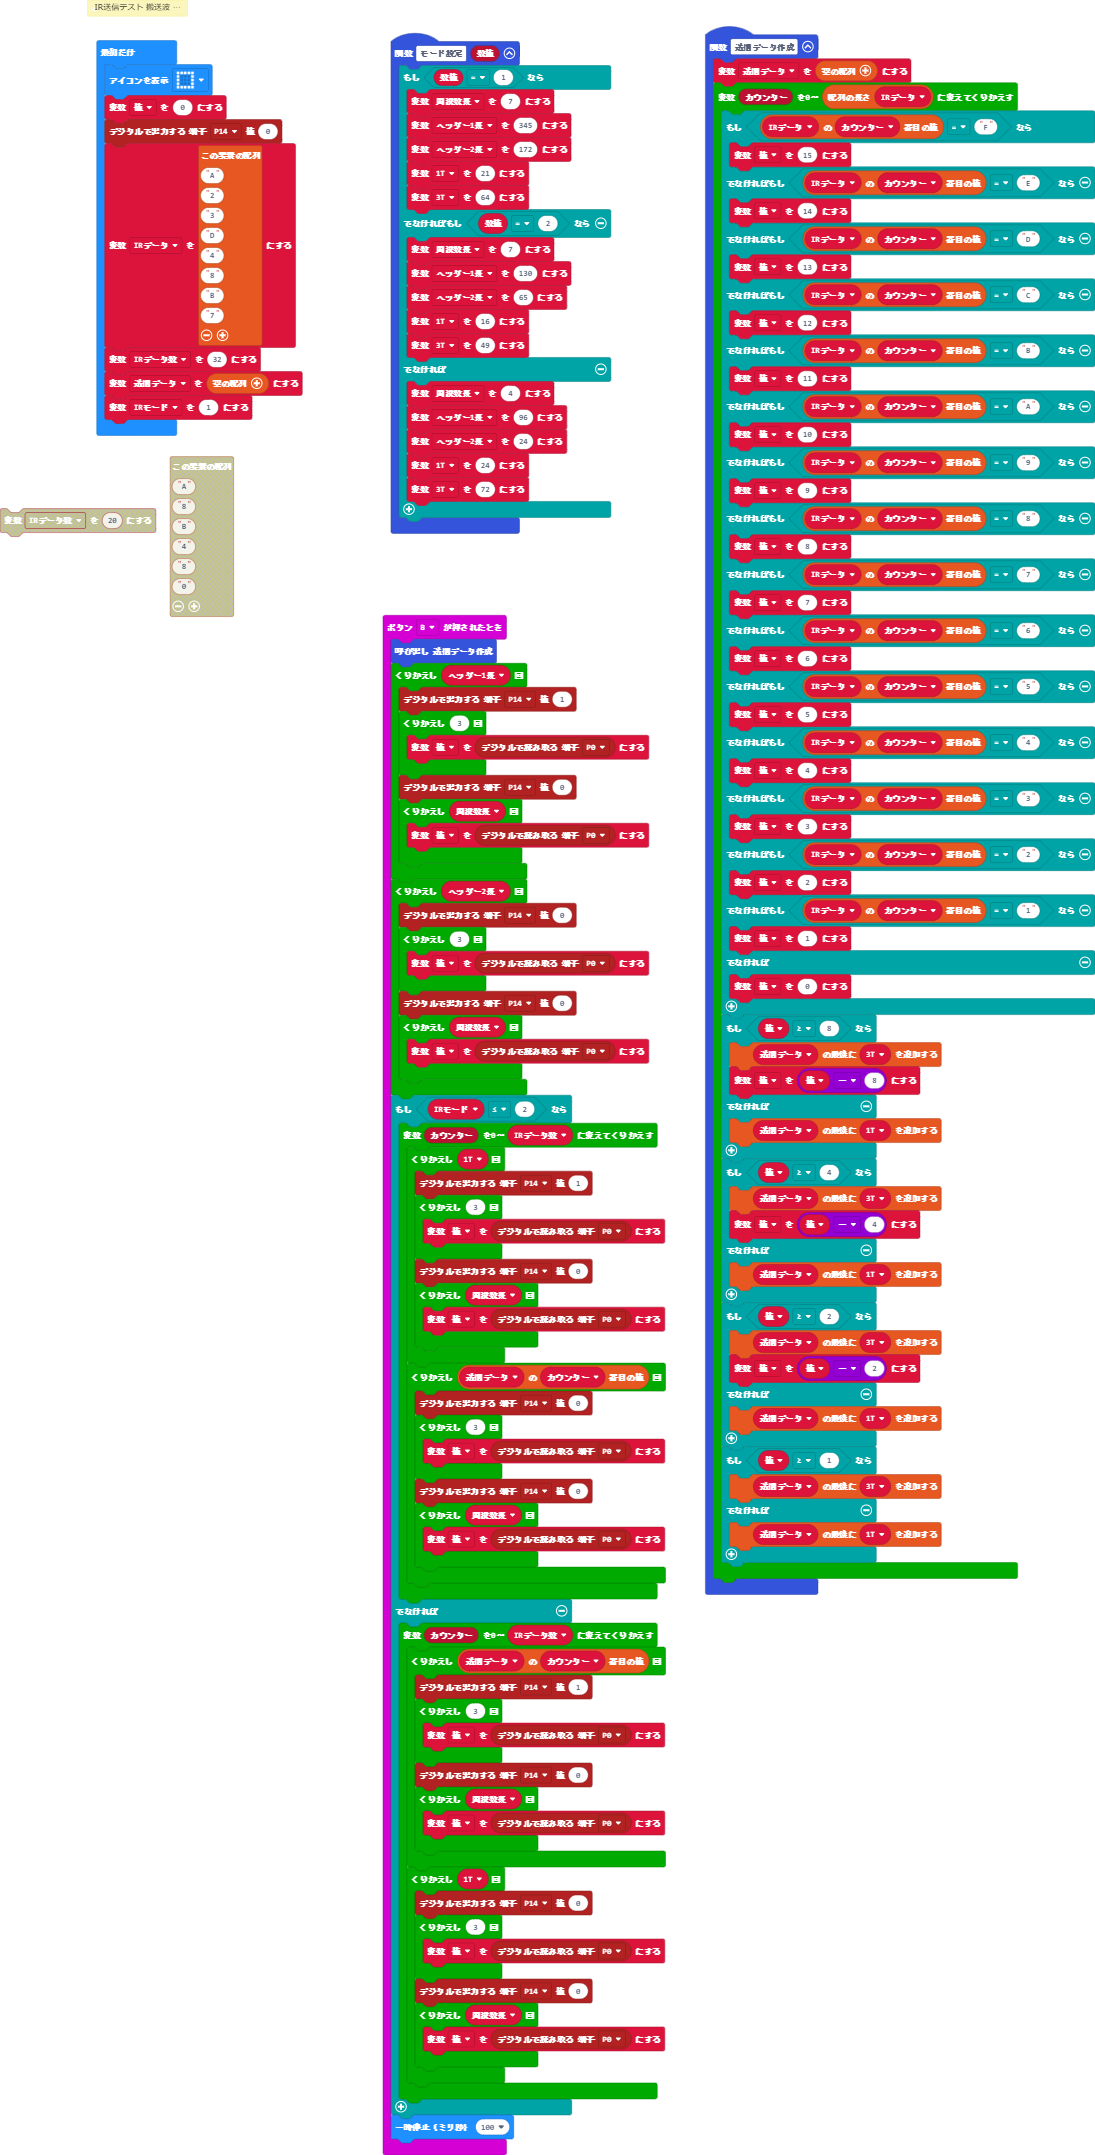
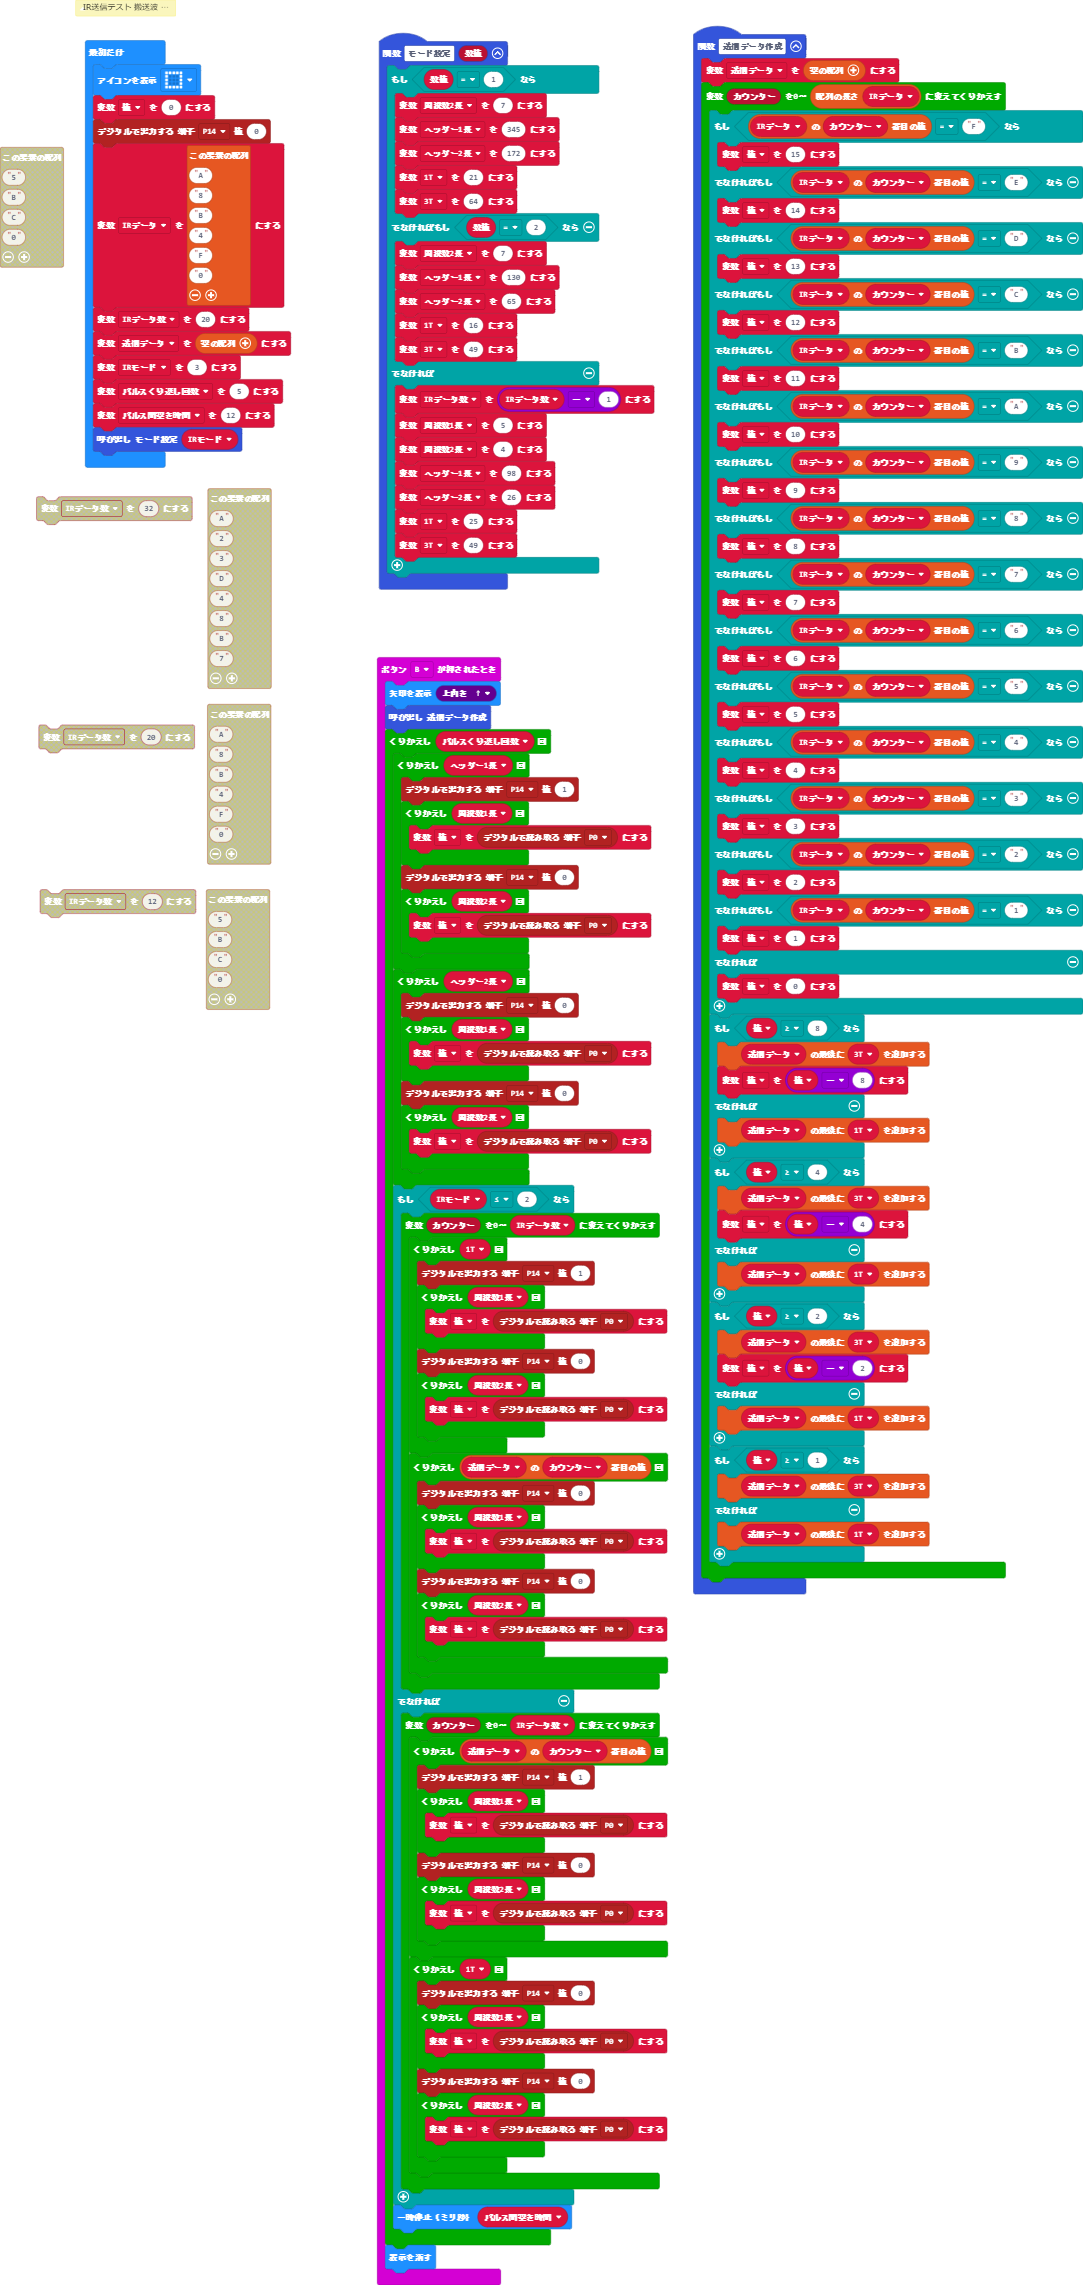
更新 main.blocks, main.ts

diff --git a/main.ts b/main.ts
@@ -1,94 +1,100 @@
 function モード設定 (数値: number) {
     if (数値 == 1) {
-        周波数長 = 7
+        周波数2長 = 7
         ヘッダー1長 = 345
         ヘッダー2長 = 172
         _1T = 21
         _3T = 64
     } else if (数値 == 2) {
-        周波数長 = 7
+        周波数2長 = 7
         ヘッダー1長 = 130
         ヘッダー2長 = 65
         _1T = 16
         _3T = 49
     } else {
-        周波数長 = 4
-        ヘッダー1長 = 96
-        ヘッダー2長 = 24
-        _1T = 24
-        _3T = 72
+        IRデータ数 = IRデータ数 - 1
+        周波数1長 = 5
+        周波数2長 = 4
+        ヘッダー1長 = 98
+        ヘッダー2長 = 26
+        _1T = 25
+        _3T = 49
     }
 }
 input.onButtonPressed(Button.B, function () {
+    basic.showArrow(ArrowNames.North)
     送信データ作成()
-    for (let index = 0; index < ヘッダー1長; index++) {
-        pins.digitalWritePin(DigitalPin.P14, 1)
-        for (let index = 0; index < 3; index++) {
-            値 = pins.digitalReadPin(DigitalPin.P0)
+    for (let index = 0; index < パルスくり返し回数; index++) {
+        for (let index = 0; index < ヘッダー1長; index++) {
+            pins.digitalWritePin(DigitalPin.P14, 1)
+            for (let index = 0; index < 周波数1長; index++) {
+                値 = pins.digitalReadPin(DigitalPin.P0)
+            }
+            pins.digitalWritePin(DigitalPin.P14, 0)
+            for (let index = 0; index < 周波数2長; index++) {
+                値 = pins.digitalReadPin(DigitalPin.P0)
+            }
         }
-        pins.digitalWritePin(DigitalPin.P14, 0)
-        for (let index = 0; index < 周波数長; index++) {
-            値 = pins.digitalReadPin(DigitalPin.P0)
+        for (let index = 0; index < ヘッダー2長; index++) {
+            pins.digitalWritePin(DigitalPin.P14, 0)
+            for (let index = 0; index < 周波数1長; index++) {
+                値 = pins.digitalReadPin(DigitalPin.P0)
+            }
+            pins.digitalWritePin(DigitalPin.P14, 0)
+            for (let index = 0; index < 周波数2長; index++) {
+                値 = pins.digitalReadPin(DigitalPin.P0)
+            }
         }
+        if (IRモード <= 2) {
+            for (let カウンター = 0; カウンター <= IRデータ数; カウンター++) {
+                for (let index = 0; index < _1T; index++) {
+                    pins.digitalWritePin(DigitalPin.P14, 1)
+                    for (let index = 0; index < 周波数1長; index++) {
+                        値 = pins.digitalReadPin(DigitalPin.P0)
+                    }
+                    pins.digitalWritePin(DigitalPin.P14, 0)
+                    for (let index = 0; index < 周波数2長; index++) {
+                        値 = pins.digitalReadPin(DigitalPin.P0)
+                    }
+                }
+                for (let index = 0; index < 送信データ[カウンター]; index++) {
+                    pins.digitalWritePin(DigitalPin.P14, 0)
+                    for (let index = 0; index < 周波数1長; index++) {
+                        値 = pins.digitalReadPin(DigitalPin.P0)
+                    }
+                    pins.digitalWritePin(DigitalPin.P14, 0)
+                    for (let index = 0; index < 周波数2長; index++) {
+                        値 = pins.digitalReadPin(DigitalPin.P0)
+                    }
+                }
+            }
+        } else {
+            for (let カウンター = 0; カウンター <= IRデータ数; カウンター++) {
+                for (let index = 0; index < 送信データ[カウンター]; index++) {
+                    pins.digitalWritePin(DigitalPin.P14, 1)
+                    for (let index = 0; index < 周波数1長; index++) {
+                        値 = pins.digitalReadPin(DigitalPin.P0)
+                    }
+                    pins.digitalWritePin(DigitalPin.P14, 0)
+                    for (let index = 0; index < 周波数2長; index++) {
+                        値 = pins.digitalReadPin(DigitalPin.P0)
+                    }
+                }
+                for (let index = 0; index < _1T; index++) {
+                    pins.digitalWritePin(DigitalPin.P14, 0)
+                    for (let index = 0; index < 周波数1長; index++) {
+                        値 = pins.digitalReadPin(DigitalPin.P0)
+                    }
+                    pins.digitalWritePin(DigitalPin.P14, 0)
+                    for (let index = 0; index < 周波数2長; index++) {
+                        値 = pins.digitalReadPin(DigitalPin.P0)
+                    }
+                }
+            }
+        }
+        basic.pause(パルス間空き時間)
     }
-    for (let index = 0; index < ヘッダー2長; index++) {
-        pins.digitalWritePin(DigitalPin.P14, 0)
-        for (let index = 0; index < 3; index++) {
-            値 = pins.digitalReadPin(DigitalPin.P0)
-        }
-        pins.digitalWritePin(DigitalPin.P14, 0)
-        for (let index = 0; index < 周波数長; index++) {
-            値 = pins.digitalReadPin(DigitalPin.P0)
-        }
-    }
-    if (IRモード <= 2) {
-        for (let カウンター = 0; カウンター <= IRデータ数; カウンター++) {
-            for (let index = 0; index < _1T; index++) {
-                pins.digitalWritePin(DigitalPin.P14, 1)
-                for (let index = 0; index < 3; index++) {
-                    値 = pins.digitalReadPin(DigitalPin.P0)
-                }
-                pins.digitalWritePin(DigitalPin.P14, 0)
-                for (let index = 0; index < 周波数長; index++) {
-                    値 = pins.digitalReadPin(DigitalPin.P0)
-                }
-            }
-            for (let index = 0; index < 送信データ[カウンター]; index++) {
-                pins.digitalWritePin(DigitalPin.P14, 0)
-                for (let index = 0; index < 3; index++) {
-                    値 = pins.digitalReadPin(DigitalPin.P0)
-                }
-                pins.digitalWritePin(DigitalPin.P14, 0)
-                for (let index = 0; index < 周波数長; index++) {
-                    値 = pins.digitalReadPin(DigitalPin.P0)
-                }
-            }
-        }
-    } else {
-        for (let カウンター = 0; カウンター <= IRデータ数; カウンター++) {
-            for (let index = 0; index < 送信データ[カウンター]; index++) {
-                pins.digitalWritePin(DigitalPin.P14, 1)
-                for (let index = 0; index < 3; index++) {
-                    値 = pins.digitalReadPin(DigitalPin.P0)
-                }
-                pins.digitalWritePin(DigitalPin.P14, 0)
-                for (let index = 0; index < 周波数長; index++) {
-                    値 = pins.digitalReadPin(DigitalPin.P0)
-                }
-            }
-            for (let index = 0; index < _1T; index++) {
-                pins.digitalWritePin(DigitalPin.P14, 0)
-                for (let index = 0; index < 3; index++) {
-                    値 = pins.digitalReadPin(DigitalPin.P0)
-                }
-                pins.digitalWritePin(DigitalPin.P14, 0)
-                for (let index = 0; index < 周波数長; index++) {
-                    値 = pins.digitalReadPin(DigitalPin.P0)
-                }
-            }
-        }
-    }
-    basic.pause(100)
+    basic.clearScreen()
 })
 function 送信データ作成 () {
     送信データ = []
@@ -160,11 +166,14 @@ function 送信データ作成 () {
  * 
  * ループ回数12＝28us、36KHz
  */
+let 周波数1長 = 0
 let _3T = 0
 let _1T = 0
 let ヘッダー2長 = 0
 let ヘッダー1長 = 0
-let 周波数長 = 0
+let 周波数2長 = 0
+let パルス間空き時間 = 0
+let パルスくり返し回数 = 0
 let IRモード = 0
 let 送信データ: number[] = []
 let IRデータ数 = 0
@@ -175,14 +184,15 @@ basic.showIcon(IconNames.Square)
 pins.digitalWritePin(DigitalPin.P14, 0)
 IRデータ = [
 "A",
-"2",
-"3",
-"D",
-"4",
 "8",
 "B",
-"7"
+"4",
+"F",
+"0"
 ]
-IRデータ数 = 32
+IRデータ数 = 20
 送信データ = []
-IRモード = 1
+IRモード = 3
+パルスくり返し回数 = 5
+パルス間空き時間 = 12
+モード設定(IRモード)
